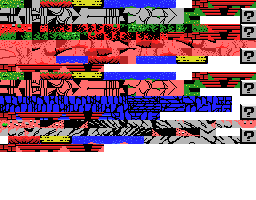
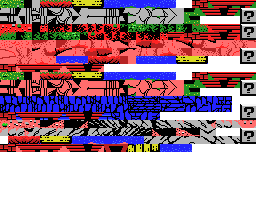
Stage 07 initial implementation

Changed region(s): [[0.4062, 0.72, 0.75, 0.78]]

diff --git a/dev/maps/map_converter.js b/dev/maps/map_converter.js
@@ -4,7 +4,7 @@ const path = require("path");
 const tilesCols = 32;
 const mapCols = 32;
 const tileSize = 8;
-const stageTilesOffset = [0, 3, 5, 9, 12, 15];
+const stageTilesOffset = [0, 3, 5, 9, 12, 15, 15, 20];
 const mapBufferBytesPerTile = 2;
 
 const objectsIds = {
@@ -122,6 +122,6 @@ function panic(message) {
     process.exit(-1);
 }
 
-for(let stage = 1; stage <= 6; ++stage) {
+for(let stage = 1; stage <= 7; ++stage) {
     generateMapBinary(stage);
 }
